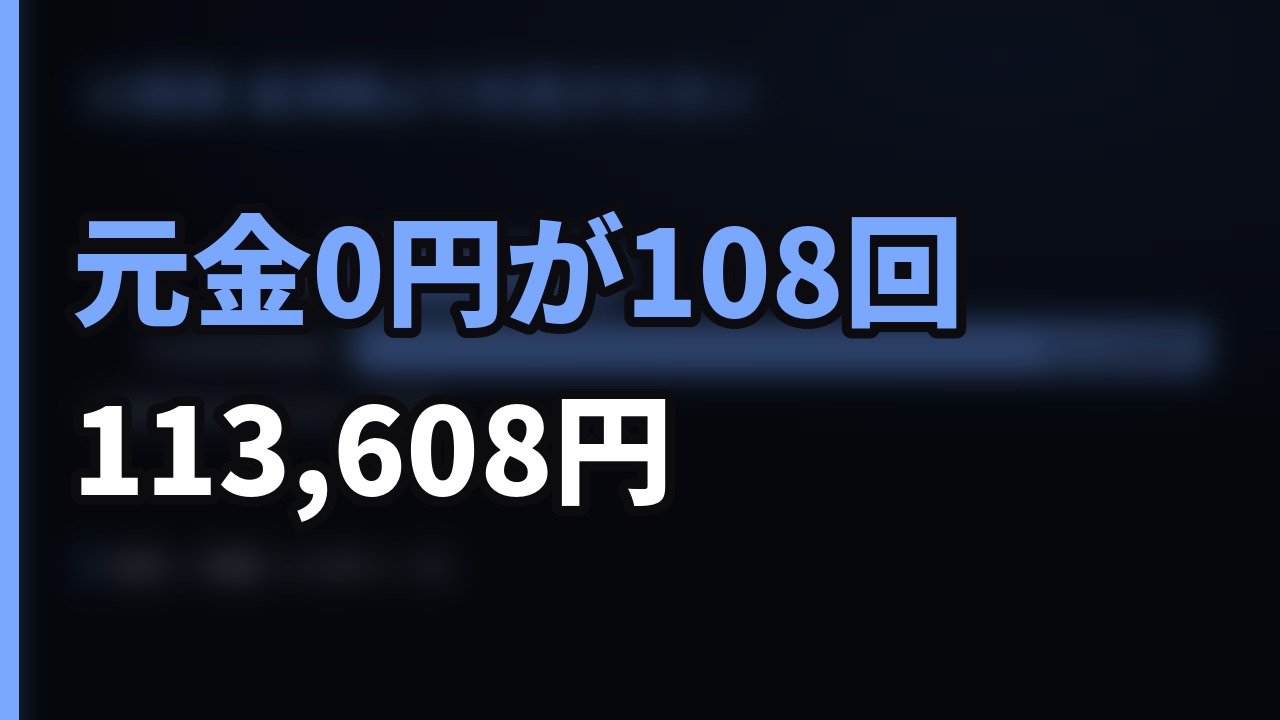
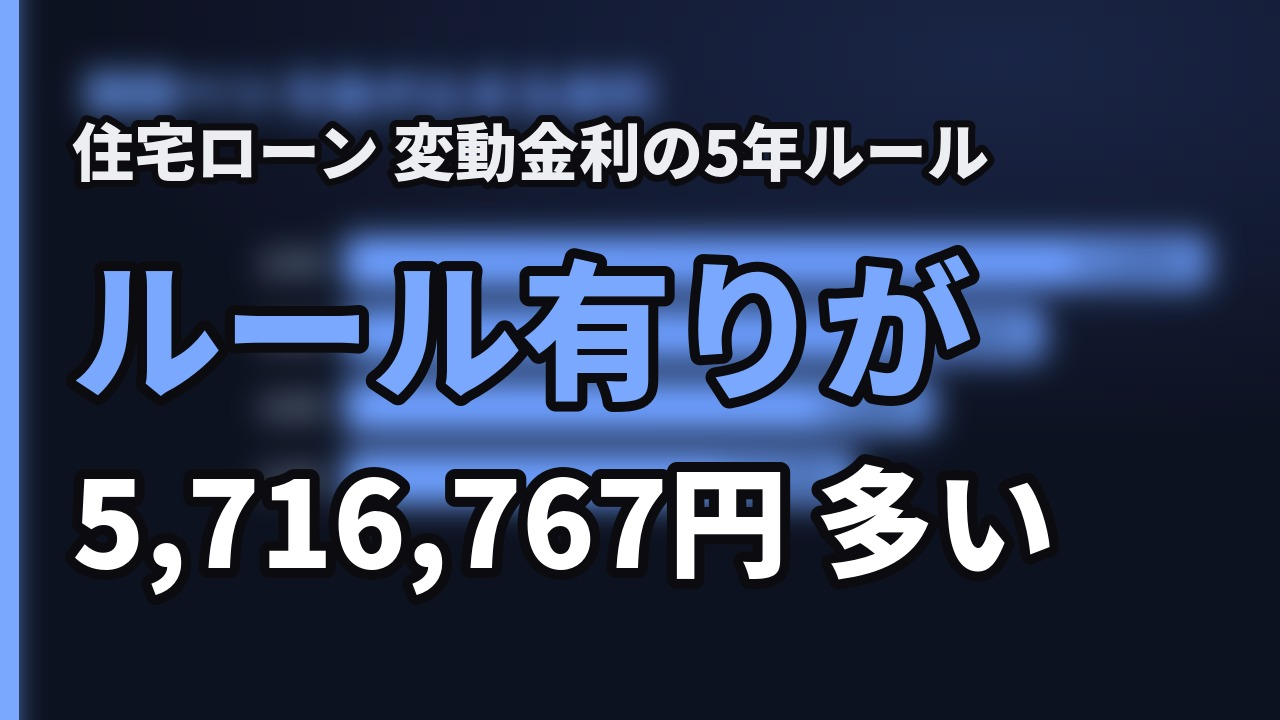
improve: 09/01 22:00 に出る1本のサムネイルを焼き直した（題材が1文字も無かった）
**規則3の回**（次の投稿の枠までの時間で、その枠で出す1本を良くする）。
API 0単位。押すのは 09/01 16:00 以降の
`refresh_thumbnail.py --missing --video UIWHsypOPPg`（50単位・依頼 b7235460）で、
**あれが押す bytes がこれに替わりました。**

## 一覧の大きさで見て、2つ見つけた

**(1) 何の話かがどこにも書いていない。** 載っていたのは
「元金0円が108回 / 113,608円」の2行だけで、**住宅ローンとも、変動金利とも、
5年ルールとも1文字も言っていません。** 数字は合っていますが、流れてくる側は
**自分に関係があるかどうかを判断できません。**

2行の型（小さくても2語で読める）は正しい。足りないのは**その2語が何についてか**
のほうなので、字を小さくせずに、**空いていた上の 150px に題材の1行**を入れました
（`thumbnail.create(kicker=...)`・省略すれば1ピクセルも変わらない）。
`src/pipeline` と `scripts/refresh_thumbnail` の両方から渡ります。

**(2) 背景が黒い長方形だった。** `Brightness(0.42)` の**固定の掛け算**は
元の明るさに対して相対的なので、暗いスライドはほぼ真っ黒になります
（実測: 字の無いところで **7〜16 / 255**）。字は読めても面が死んでいて、
一覧では明るい競合の隣の黒い長方形です。

**これはこの file が1度 踏んだのと同じ形の間違いです** —— ぼかしのときも
「字の大きさに対して相対的」で壊れ、`MOSAIC_W`（大きさに依存しない方法）で
直っています。**明るさも同じ**なので、**行き先の平均輝度を決めて合わせる**形に
替えました（`BG_TARGET_LUMA = 46`）。素材が暗くても明るくても同じ濃さに来ます。

    字の無い右下   7 → **18**       全体   31 → **58**

## 字は、題と重ならない数に替えた

    kicker  住宅ローン 変動金利の5年ルール
    line1   ルール有りが
    line2   5,716,767円 多い

題は 1,094,544円（未払利息）側なので、**サムネは同じ数を繰り返しません。**
選んだのはこの計算でいちばん裏切る数 —— **ルールが付いた契約のほうが
総支払は 5,716,767円 多い**（69,212,032 対 63,495,265。据え置いたぶん元金が
減らず、同じ残高に利息を払い続けるため）。

**repo 自身の門に通してあります** ——
`src/verify._check_title_from_calc`（1000以上の数は計算出力に実在すること・
丸めるのも駄目）を通過。5,716,767 は `src/calc/hendo.rule_grid()` の
4.0% の行に実在します。`_check_thumbnail` も通過。

検査 `tests/test_thumbnail_not_black.py`（6件。**固定の掛け算に戻ったら赤**・
暗い素材と明るい素材のどちらから作っても同じ帯に来ること。
**数は写さず `src/thumbnail` を読みます**）。
[…]

diff --git a/src/thumbnail.py b/src/thumbnail.py
@@ -7,7 +7,7 @@ from __future__ import annotations
 
 from pathlib import Path
 
-from PIL import Image, ImageDraw, ImageEnhance, ImageFilter, ImageFont
+from PIL import Image, ImageDraw, ImageEnhance, ImageFilter, ImageFont, ImageStat
 
 from .util import run
 
@@ -24,6 +24,24 @@ FONT_CANDIDATES = [
 ]
 ACCENT = (255, 204, 0)   # 既定。動画のテーマ色を渡せばそちらを使う
 MOSAIC_W = 80            # 背景をいったんここまで縮める。字形が残らない幅
+
+# **背景の行き先**（平均輝度・0〜255）。**掛け算ではなく行き先で決める**理由は
+# `_base_image()` の中に書いてあります。46 は「白い字が十分に立ち、かつ
+# 一覧の中で黒い長方形に見えない」ところ。**素材の明るさに依らず、ここへ来ます。**
+BG_TARGET_LUMA = 46.0
+# **挟む幅は広く取ります。** 狭いと、そこで頭打ちになった素材の明るさが
+# そのまま出来上がりに漏れ、**行き先で決める意味が消えます**
+# （実測: 0.25〜3.20 では、ほぼ白の素材が 61、ほぼ黒の素材が 29 になり、
+#  行き先 46 に届きませんでした ―― `tests/test_thumbnail_not_black.py`）。
+# **粒は心配ありません** —— 明るくするのは `MOSAIC_W` で潰して
+# ぼかした**あと**なので、持ち上げる粒がそもそも残っていません。
+BG_GAIN_MIN = 0.10       # 明るい素材を落とせる下限
+BG_GAIN_MAX = 6.00       # 暗い素材を持ち上げる上限
+
+# **題材の1行**（`kicker`）。本文の 120〜150 に対して十分に小さく ——
+# 同じ大きさで3行 並べると、どれが結論か分からなくなります。
+KICKER_SIZE = 62
+KICKER_GAP = 30
 
 
 def _font(size: int) -> ImageFont.FreeTypeFont:
@@ -74,7 +92,26 @@ def _base_image(source: Path, work: Path) -> Image.Image:
     small = img.resize((MOSAIC_W, round(H * MOSAIC_W / W)), Image.BILINEAR)
     img = small.resize((W, H), Image.BILINEAR)
     img = img.filter(ImageFilter.GaussianBlur(12))
-    img = ImageEnhance.Brightness(img).enhance(0.42)
+
+    # **明るさは掛け算ではなく、行き先を決めて合わせる**（2026-08-31 に直した）。
+    #
+    # ここは長らく `Brightness(0.42)` の**固定の掛け算**でした。掛け算は
+    # **元の明るさに対して相対的**なので、暗いスライドから作った本は
+    # **ほぼ真っ黒**になります（実測: `UIWHsypOPPg` の控えは、**字の無いところで
+    # 平均輝度 7〜16/255** ＝ 一覧の中では黒い長方形。字は読めても、面が死んでいます）。
+    #
+    # **これは、この file の上の docstring が1度 踏んだのと同じ形の間違いです** ——
+    # あちらは「ぼかしは字の大きさに対して相対的」で、`MOSAIC_W` という
+    # **大きさに依存しない方法**に替えて直りました。**明るさも同じで、
+    # 元の明るさに依存しない方法**でないと、素材ごとに出来上がりが振れます。
+    #
+    # だから**行き先の平均輝度を決めて、そこへ合わせます。** 素材が暗くても
+    # 明るくても、背景は同じ濃さになり、白と accent の字が同じだけ立ちます。
+    # 上限を付けているのは、暗い素材を持ち上げすぎて粒が出るのを避けるため。
+    stat = ImageStat.Stat(img.convert("L"))
+    mean = max(stat.mean[0], 1.0)
+    img = ImageEnhance.Brightness(img).enhance(
+        min(BG_GAIN_MAX, max(BG_GAIN_MIN, BG_TARGET_LUMA / mean)))
     img = ImageEnhance.Color(img).enhance(1.15)
     return img
 
@@ -84,8 +121,28 @@ def _draw_outlined(draw: ImageDraw.ImageDraw, xy, text: str, font, fill, stroke=
 
 
 def create(source: Path, line1: str, line2: str, out_path: Path, work: Path,
-           accent: tuple[int, int, int] | None = None) -> Path:
-    """accent には動画のテーマ色を渡す。渡さないと本文と色が食い違う。"""
+           accent: tuple[int, int, int] | None = None,
+           kicker: str | None = None) -> Path:
+    """accent には動画のテーマ色を渡す。渡さないと本文と色が食い違う。
+
+    `kicker` は**題材そのもの**を1行で書く欄（省略可）。
+
+    ## なぜ足したか（2026-08-31）
+
+    `UIWHsypOPPg` の控えを一覧の大きさで見たら、載っていたのは
+    **「元金0円が108回 / 113,608円」の2行だけ**でした。**数字は合っていますが、
+    何の話かがどこにも書いてありません** —— 住宅ローンとも、変動金利とも、
+    5年ルールとも、1文字も言っていない。**流れてくる側は、自分に関係が
+    あるかどうかを判断できません。**
+
+    2行の型は「小さくても2語で読める」ために選ばれたもので、そこは正しい。
+    **足りなかったのは、その2語が何についてかのほう**です。だから
+    **本文の字を小さくせずに、上の空きへ題材を1行**入れます
+    （実測: 字の無い上の帯が 150px ぶん空いていました）。
+
+    **kicker の中身はテーマごとに違います**（型ではなく、その本の題材）。
+    渡さなければ、これまでと1ピクセルも変わりません。
+    """
     accent = accent or ACCENT
     img = _base_image(source, work)
     draw = ImageDraw.Draw(img)
@@ -100,7 +157,20 @@ def create(source: Path, line1: str, line2: str, out_path: Path, work: Path,
     h1 = draw.textbbox((0, 0), line1 or "　", font=f1)[3]
     h2 = draw.textbbox((0, 0), line2 or "　", font=f2)[3]
     gap = 26
-    top = (H - (h1 + h2 + gap)) // 2 - 10
+
+    fk = hk = None
+    if kicker:
+        # **本文より明らかに小さく。** 同じ大きさで3行 並べると、
+        # どれが結論か分からなくなります（読む順が決まらない）。
+        fk = _font(KICKER_SIZE if len(kicker) <= 18 else KICKER_SIZE - 10)
+        hk = draw.textbbox((0, 0), kicker, font=fk)[3]
+
+    block = h1 + h2 + gap + ((hk + KICKER_GAP) if hk else 0)
+    top = (H - block) // 2 - 10
+
+    if kicker:
+        _draw_outlined(draw, (72, top), kicker, fk, (236, 238, 242), stroke=7)
+        top += hk + KICKER_GAP
 
     if line1:
         _draw_outlined(draw, (72, top), line1, f1, accent)

diff --git a/tests/test_thumbnail_not_black.py b/tests/test_thumbnail_not_black.py
@@ -1,0 +1,108 @@
+"""**サムネイルが、一覧の中で黒い長方形になっていないか。**（2026-08-31 に足した）
+
+## 何が壊れていたか
+
+`src/thumbnail._base_image()` は背景の明るさを
+`ImageEnhance.Brightness(img).enhance(0.42)` の**固定の掛け算**で作っていました。
+掛け算は**元の明るさに対して相対的**なので、暗いスライドから作った本は
+ほぼ真っ黒になります。
+
+実測（`data/critique_queue/UIWHsypOPPg.thumb.jpg`・09/01 22:00 JST に出る1本）:
+
+    字の無い右下の帯   平均輝度 **7 / 255**
+    字の無い上の帯     平均輝度 **16 / 255**
+
+字は読めます。**面が死んでいます。** 一覧では、明るい競合の隣に置かれた
+黒い長方形です。`_check_thumbnail()` は「ほぼ単色」を stddev で見ていますが、
+**黒い面に白い字が乗っていれば stddev は十分に大きい** ので、この形は
+1度も咎められませんでした。**「単色ではない」と「見える」は別の条件**です。
+
+## これは、この file が1度 踏んだのと同じ形の間違いです
+
+`_base_image()` の docstring に、ぼかしで同じことをやった記録があります ——
+「ぼかしは文字の大きさに対して相対的で、160px の数字1つは 22 のぼかしでは
+消えない。**大きさに依存しない方法**でないと、また同じ壊れ方をする」。
+`MOSAIC_W`（幅80pxまで縮める）がその答えでした。
+
+**明るさも同じです。** 元の明るさに依存しない方法 ＝ **行き先を決めて合わせる**
+（`BG_TARGET_LUMA`）。素材が暗くても明るくても、背景は同じ濃さになります。
+
+## ここが見るのは2つ
+
+    1. **固定の掛け算に戻っていないこと**（`enhance(0.42)` のような定数）
+    2. 暗い素材・明るい素材の**どちらから作っても**、背景が同じ帯に来ること
+
+## 覆る条件
+
+**行き先の輝度（`BG_TARGET_LUMA`）を変えたくなったとき。** そのときは
+この検査の帯も一緒に動かすこと —— **数はここに写さず、`src/thumbnail` を読みます。**
+"""
+from __future__ import annotations
+
+import sys
+from pathlib import Path
+
+import pytest
+
+ROOT = Path(__file__).resolve().parent.parent
+sys.path.insert(0, str(ROOT))
+
+PIL = pytest.importorskip("PIL")
+from PIL import Image, ImageStat  # noqa: E402
+
+from src import thumbnail  # noqa: E402
+
+# 行き先からどれだけ離れてよいか。**数は `src/thumbnail` から取ります。**
+TOLERANCE = 14.0
+
+
+def _flat(rgb: tuple[int, int, int], path: Path) -> Path:
+    Image.new("RGB", (1280, 720), rgb).save(path)
+    return path
+
+
+def test_固定の掛け算に戻っていない():
+    """`enhance(0.42)` のような定数が背景の明るさを決めていないこと。"""
+    src = (ROOT / "src" / "thumbnail.py").read_text(encoding="utf-8")
+    assert "BG_TARGET_LUMA" in src, (
+        "背景の明るさが行き先で決まっていません。"
+        "固定の掛け算は、暗い素材をほぼ真っ黒にします"
+    )
+    assert "Brightness(img).enhance(0.42)" not in src, (
+        "固定の掛け算に戻っています。**元の明るさに依存しない方法**にすること"
+    )
+
+
+@pytest.mark.parametrize("rgb", [(8, 9, 14), (30, 34, 44), (150, 155, 165), (245, 245, 245)])
+def test_どの明るさの素材からでも背景は同じ帯に来る(tmp_path, rgb):
+    """暗い素材と明るい素材で、出来上がりの背景が同じ濃さになること。"""
+    out = thumbnail.create(
+        _flat(rgb, tmp_path / "src.png"),
+        "", "", tmp_path / "out.jpg", tmp_path,
+    )
+    # 字を置いていないので、画面ぜんたいが背景（左端のバーぶんだけ避ける）
+    with Image.open(out) as im:
+        luma = ImageStat.Stat(im.convert("L").crop((40, 0, 1280, 720))).mean[0]
+
+    lo = thumbnail.BG_TARGET_LUMA - TOLERANCE
+    hi = thumbnail.BG_TARGET_LUMA + TOLERANCE
+    assert lo <= luma <= hi, (
+        f"素材 {rgb} から作った背景の平均輝度が {luma:.1f} で、"
+        f"行き先 {thumbnail.BG_TARGET_LUMA:.0f} ± {TOLERANCE:.0f} の外です。"
+        "**素材の明るさが出来上がりに漏れています**"
+    )
+
+
+def test_黒い長方形にならない(tmp_path):
+    """いちばん暗い素材でも、一覧で面が見えるところまで上がること。"""
+    out = thumbnail.create(
+        _flat((6, 6, 10), tmp_path / "src.png"),
+        "元金0円が108回", "113,608円", tmp_path / "out.jpg", tmp_path,
+    )
+    with Image.open(out) as im:
+        # 字の無い右下だけを見る（字の明るさで底上げされないように）
+        luma = ImageStat.Stat(im.convert("L").crop((760, 600, 1280, 720))).mean[0]
+    assert luma >= 12.0, (
+        f"字の無いところの平均輝度が {luma:.1f} しかありません。"
+        "**一覧では黒い長方形です** —— 直す前の控えがちょうどこの値（7〜16）でした"
+    )

diff --git a/src/pipeline.py b/src/pipeline.py
@@ -657,6 +657,9 @@ def main(argv: list[str] | None = None) -> int:
         slides[slide_index_of_segment[pick_thumbnail_slide(script)]],
         script.thumbnail_line1, script.thumbnail_line2,
         work / "thumbnail.jpg", work, accent=accent,
+        # **題材の1行**（省略可）。台本が持っていなければ、これまでと同じ絵。
+        # `src/thumbnail.create()` の docstring に、足した理由の全文。
+        kicker=getattr(script, "thumbnail_kicker", None),
     )
 
     description = build_description(script, spans, channel, topic["id"])

diff --git a/scripts/refresh_thumbnail.py b/scripts/refresh_thumbnail.py
@@ -60,6 +60,7 @@ def main(topic: str, video_id: str, theme_index: int) -> int:
         slides[len(slides) // 2],
         script["thumbnail_line1"], script["thumbnail_line2"],
         work / "thumbnail.jpg", work, accent=accent,
+        kicker=script.get("thumbnail_kicker"),
     )
     print(f"[thumb] 作り直しました: {out} accent={theme['accent']}")
 
